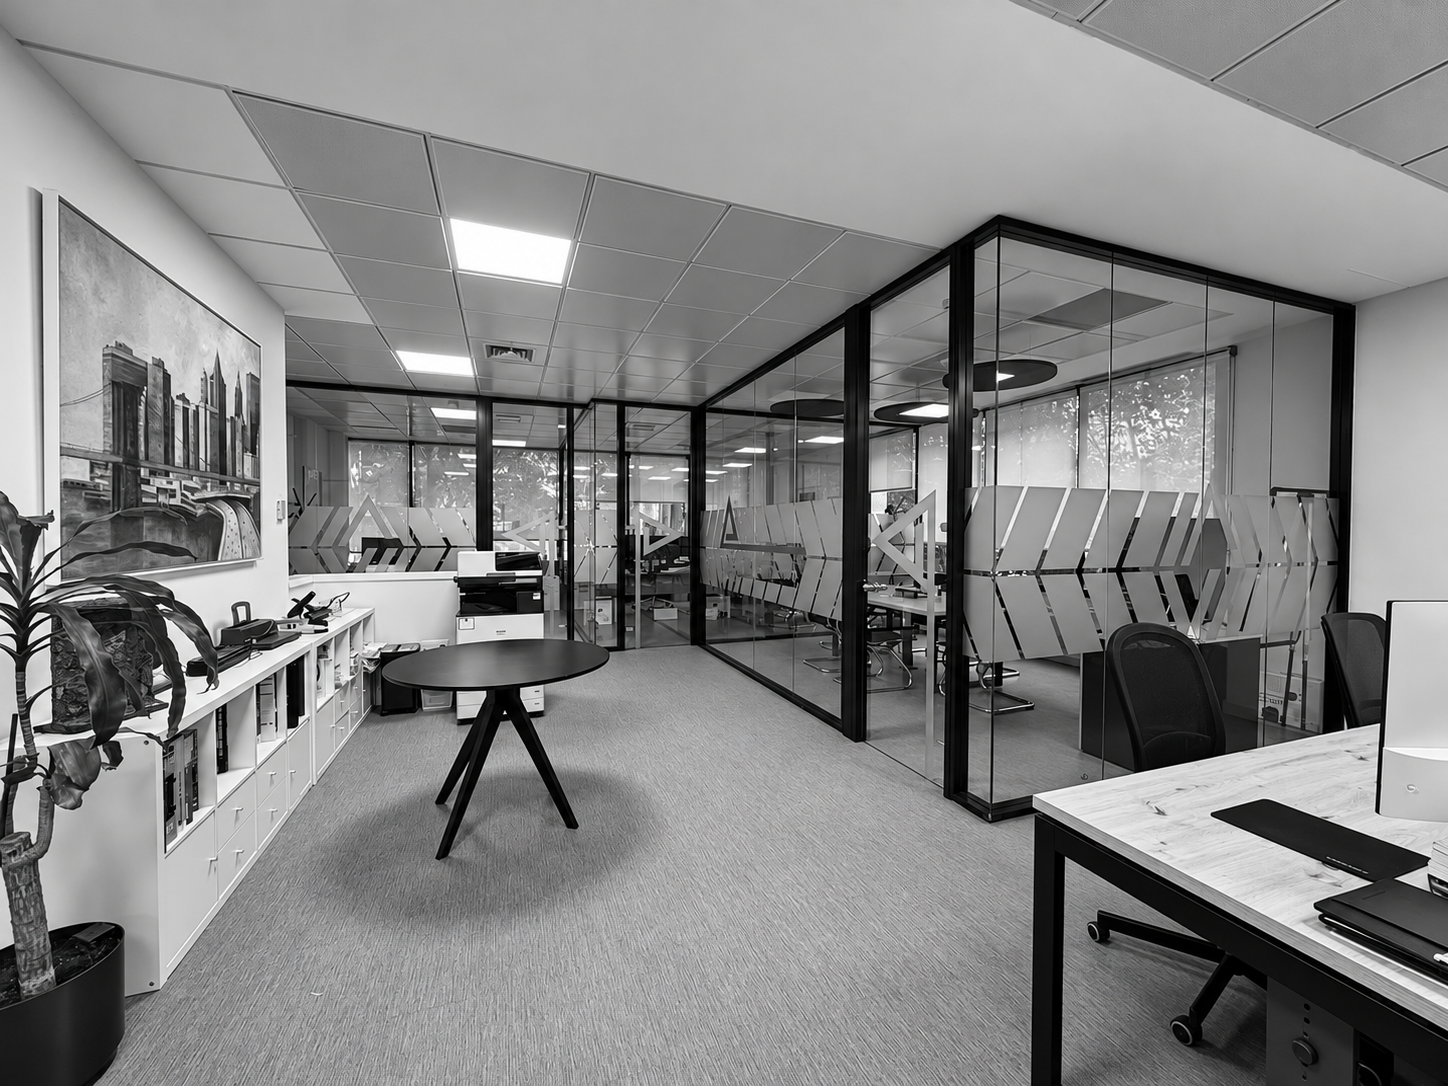
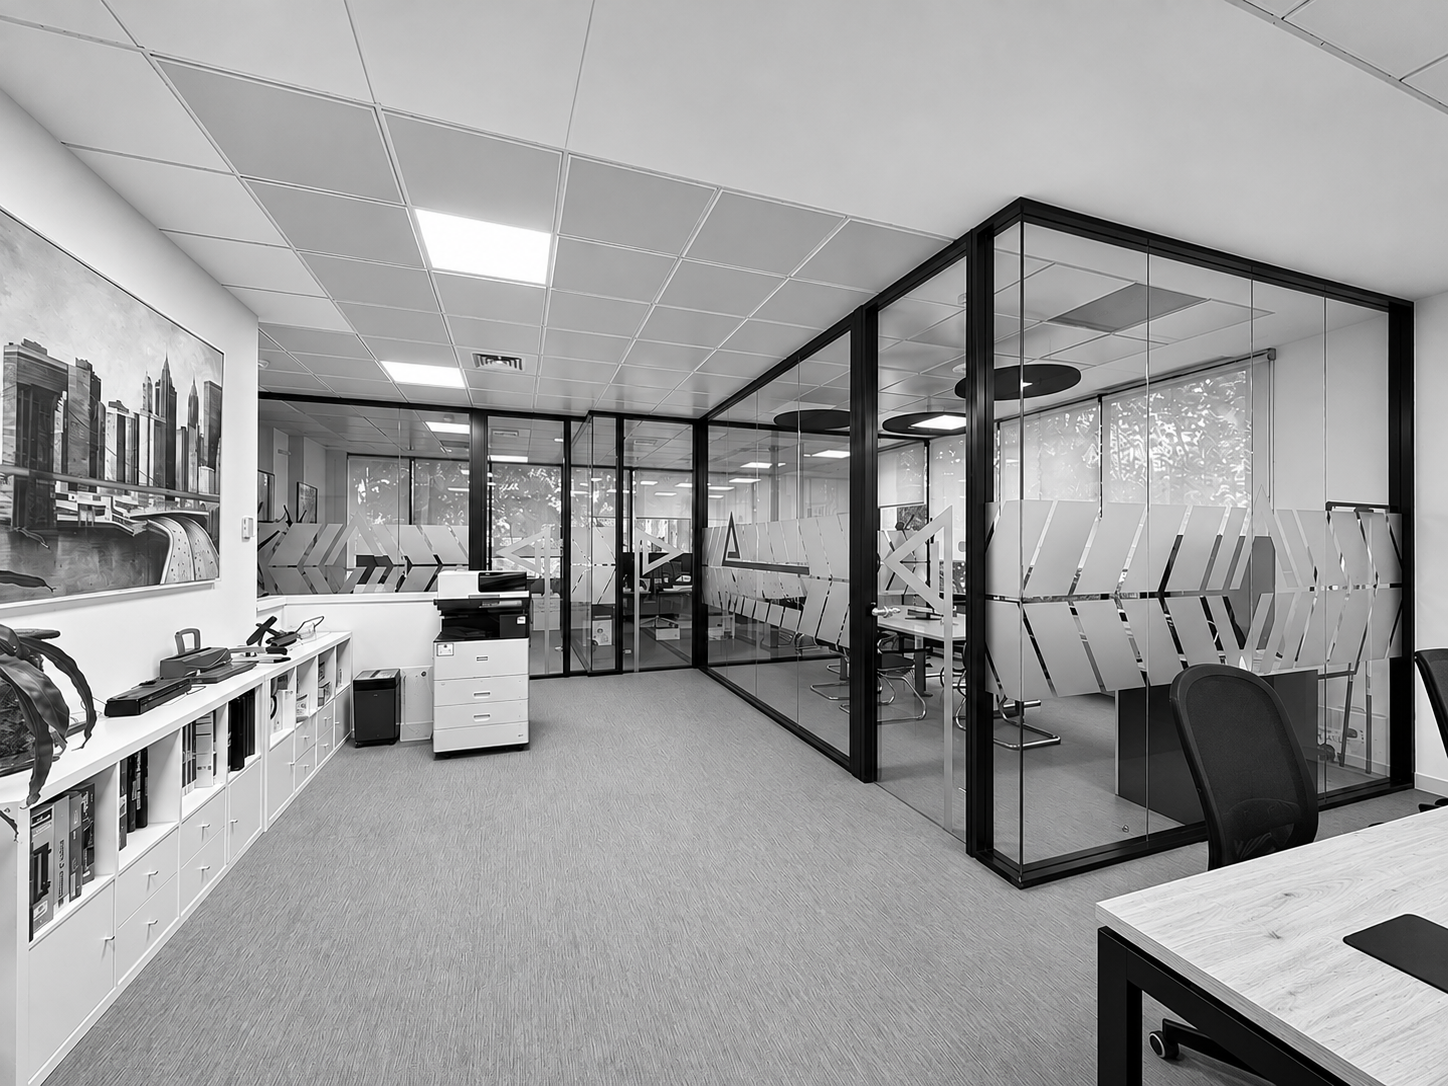
zgdsg

diff --git a/nosotros/index.html b/nosotros/index.html
@@ -60,11 +60,11 @@
 
         <!-- FOTO + TEXTO -->
         <div
-          class="grid grid-cols-1 md:grid-cols-12 gap-12 md:gap-16 items-stretch"
+          class="grid grid-cols-1 md:grid-cols-12 gap-10 lg:gap-16 items-stretch"
         >
 
           <!-- FOTO IZQUIERDA -->
-          <div class="md:col-span-4">
+          <div class="md:col-span-6">
 
             <div
               class="w-full aspect-[4/3] bg-neutral-100 overflow-hidden"
@@ -84,13 +84,13 @@
 
 
           <!-- TEXTO DERECHA -->
-          <div class="md:col-span-8 flex flex-col justify-between">
+          <div class="md:col-span-6 flex flex-col justify-between">
 
             <div
-              class="text-[13px] md:text-[13.5px] leading-[1.75] text-neutral-800 font-light space-y-5 text-justify"
+              class="text-[15px] lg:text-[16px] leading-[1.8] text-neutral-800 font-light space-y-5 text-justify"
             >
 
-              <h1 class="font-urbanist text-2xl md:text-3xl font-light text-left text-black">
+              <h1 class="font-urbanist text-3xl lg:text-4xl leading-tight font-light text-left text-black">
                 Más de 30 años construyendo
               </h1>
 
